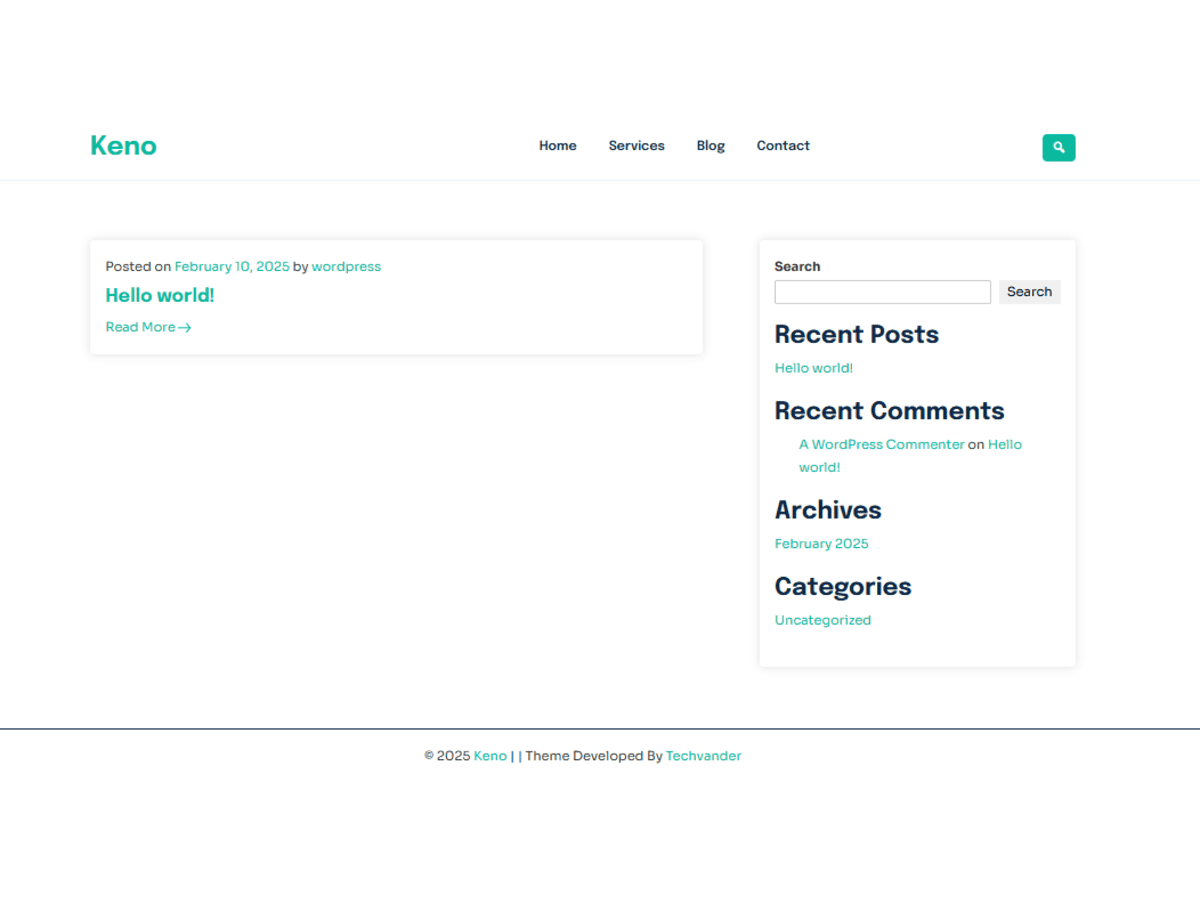
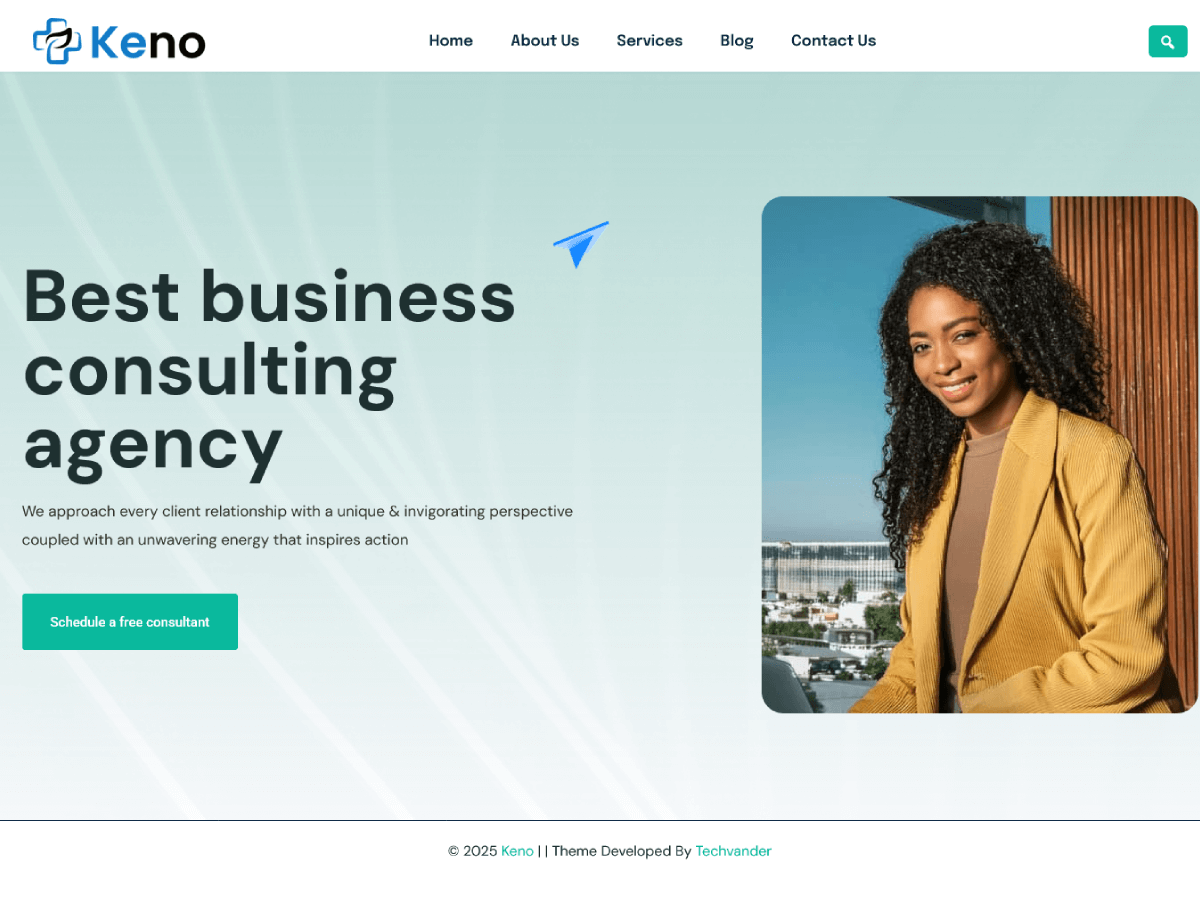
version 1.2.5

diff --git a/style.css b/style.css
@@ -1,10 +1,10 @@
 /*!
 Theme Name: Keno
-Theme URI: 
+Theme URI: https://keno.techvander.com/keno-preview/
 Author: Themevander
-Author URI:
+Author URI: https://techvander.com/
 Description: Keno is fast, fully customizable & beautiful WordPress theme suitable for blog, personal portfolio, business website and WooCommerce storefront
-Version: 1.2.4
+Version: 1.2.5
 Tested up to: 6.7
 Requires PHP: 7.4
 License: GNU General Public License v2 or later

diff --git a/functions.php b/functions.php
@@ -9,7 +9,7 @@
 
 if ( ! defined( 'KENO_S_VERSION' ) ) {
 	// Replace the version number of the theme on each release.
-	define( 'KENO_S_VERSION', '1.2.4' );
+	define( 'KENO_S_VERSION', '1.2.5' );
 }
 
 /**
